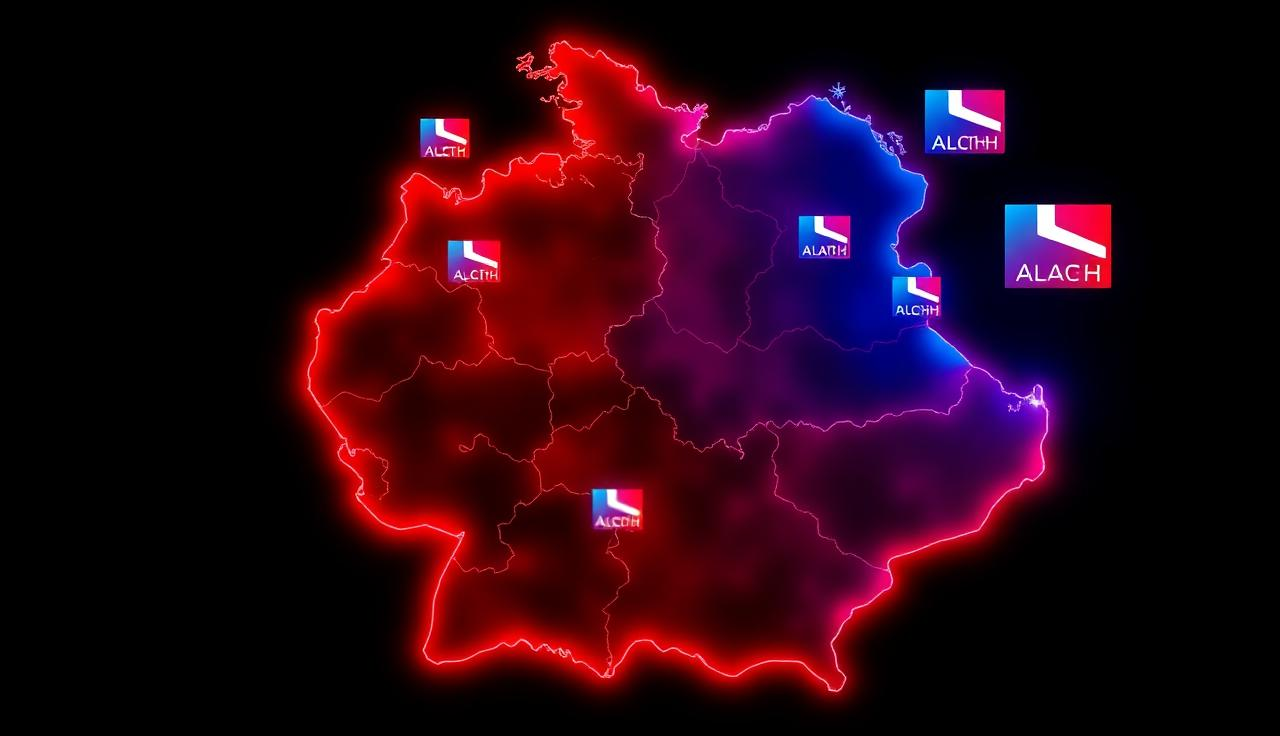
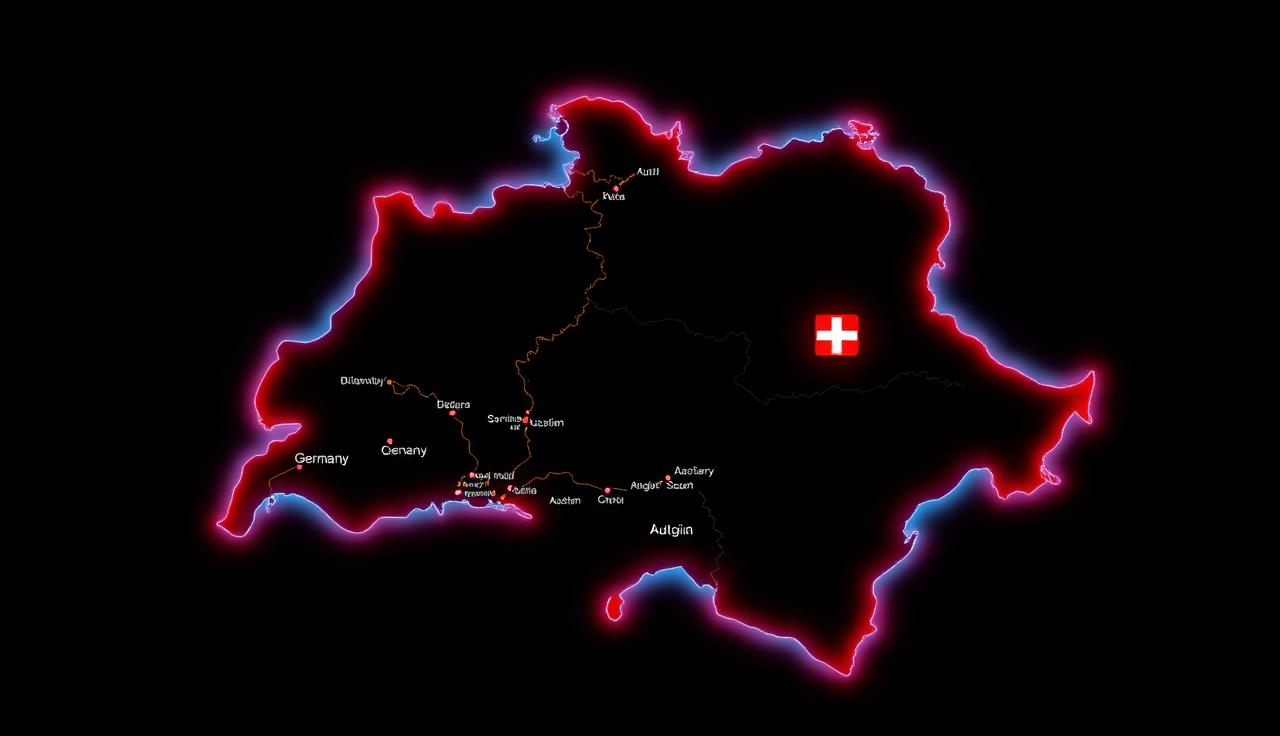
Changes

diff --git a/.lovable/plan.md b/.lovable/plan.md
@@ -1,43 +1,17 @@
-## Add section images to the homepage (image-less sections only)
+## Regenerate the DACH region image
 
-### Sections that already have images (untouched)
-- Hero — `hero-stadium.jpg` + `iptv-anbieter-multidevice.png`
-- Sport highlight — `sport-highlight.jpg`
-- Devices — `supported-devices.png`
+The current `src/assets/iptv-dach-region.jpg` has garbled fake text/logos ("ALCTH", "ALACH") on the floating tiles, which looks unprofessional.
 
-### Sections currently without images → 3 new images
-Skipping pure data/UI sections (Stats numbers band, Pricing tabs, FAQ accordion, gradient Final CTA) — adding a photo there hurts more than it helps.
+### Action
+Regenerate the same file (`src/assets/iptv-dach-region.jpg`, 1280×736) with a cleaner prompt that explicitly avoids any text, letters, logos, or symbols.
 
-1. **"Warum einen IPTV Anbieter wählen?"** (Kabel vs Sat vs IPTV comparison)
-   - New image: `src/assets/iptv-vs-kabel-sat.jpg` — modern living room, glowing 4K TV showing a sports broadcast, an old satellite dish + cable receiver visibly unplugged in the corner. Conveys "switch from cable/sat to IPTV".
-   - Placement: left column at md+, full width above intro paragraphs on mobile. Wrapped in a 2-col grid (`md:grid-cols-2`) with the existing copy on the right. Comparison cards stay full width below.
+### New prompt direction
+Stylized glowing outline map of the DACH region (Germany, Austria, Switzerland) on a deep dark background, neon red and blue gradient borders, three small flag accents (German, Austrian, Swiss flags rendered as simple color bars — black/red/gold, red/white/red, red/white cross), subtle TV signal waves and broadcast pulses radiating from major cities, premium cinematic look. Absolutely no text, no letters, no words, no fake logos, no UI elements.
 
-2. **"Was unseren IPTV Anbieter ausmacht"** (Features)
-   - New image: `src/assets/iptv-features-player.jpg` — a stylized Smart TV UI mock showing EPG timeline, multi-view split, catch-up timeline. Communicates "Player technology / features".
-   - Placement: small banner above feature cards, capped at `max-h-56 md:max-h-72`, `object-cover`, `w-full rounded-xl`. Lazy-loaded.
-
-3. **"IPTV Anbieter in Deutschland, Österreich & Schweiz"** (DACH)
-   - New image: `src/assets/iptv-dach-region.jpg` — an abstract map of D-A-CH region with subtle TV channel logos / signal waves overlay (no real broadcaster logos, generic).
-   - Placement: right column at md+, copy on left (`md:grid-cols-2`). Country cards stay below in their 3-col grid.
-
-### Image specs (so layout stays tight on mobile + desktop)
-- All `.jpg`, generated at **1280×720** (16:9). Small file, predictable aspect.
-- Always rendered with explicit `width`/`height` attributes → no CLS.
-- Hero-area new images use `lg:max-h-72` / `md:max-h-56` caps on mobile to prevent vertical bloat.
-- All images: `loading="lazy"`, `decoding="async"`, `object-cover`, `rounded-xl`.
-- Wrapped sections use existing `max-w-7xl` containers — no new horizontal space.
-
-### SEO
-- **Descriptive German alt text** with the primary keyword "IPTV Anbieter" naturally included on each:
-  - Img 1 alt: "IPTV Anbieter ersetzt Kabel- und Satellitenfernsehen — 4K Smart-TV im Wohnzimmer"
-  - Img 2 alt: "IPTV Anbieter Player mit EPG, Multi-View und 7-Tage Catch-Up auf Smart TV"
-  - Img 3 alt: "IPTV Anbieter für Deutschland, Österreich und Schweiz — DACH-Senderpaket"
-- File names are keyword-rich (`iptv-vs-kabel-sat`, `iptv-features-player`, `iptv-dach-region`).
-- Existing meta/OG tags, JSON-LD, H1/H2 structure — all untouched.
-- No copy removed or reordered; images only added alongside existing text.
-- All `<img>` tags include explicit dimensions (no layout shift, good Core Web Vitals).
+### What stays
+- Same file path (replaces existing) → no code changes needed.
+- Same alt text and dimensions in `src/routes/index.tsx` → SEO unchanged.
+- Same placement, layout, mobile sizing.
 
 ### Out of scope
-- No changes to Hero, Sport, Devices, Pricing, FAQ, Stats, Final CTA.
-- No design system / token changes.
-- No new copy.
+No code edits. No other images touched.
